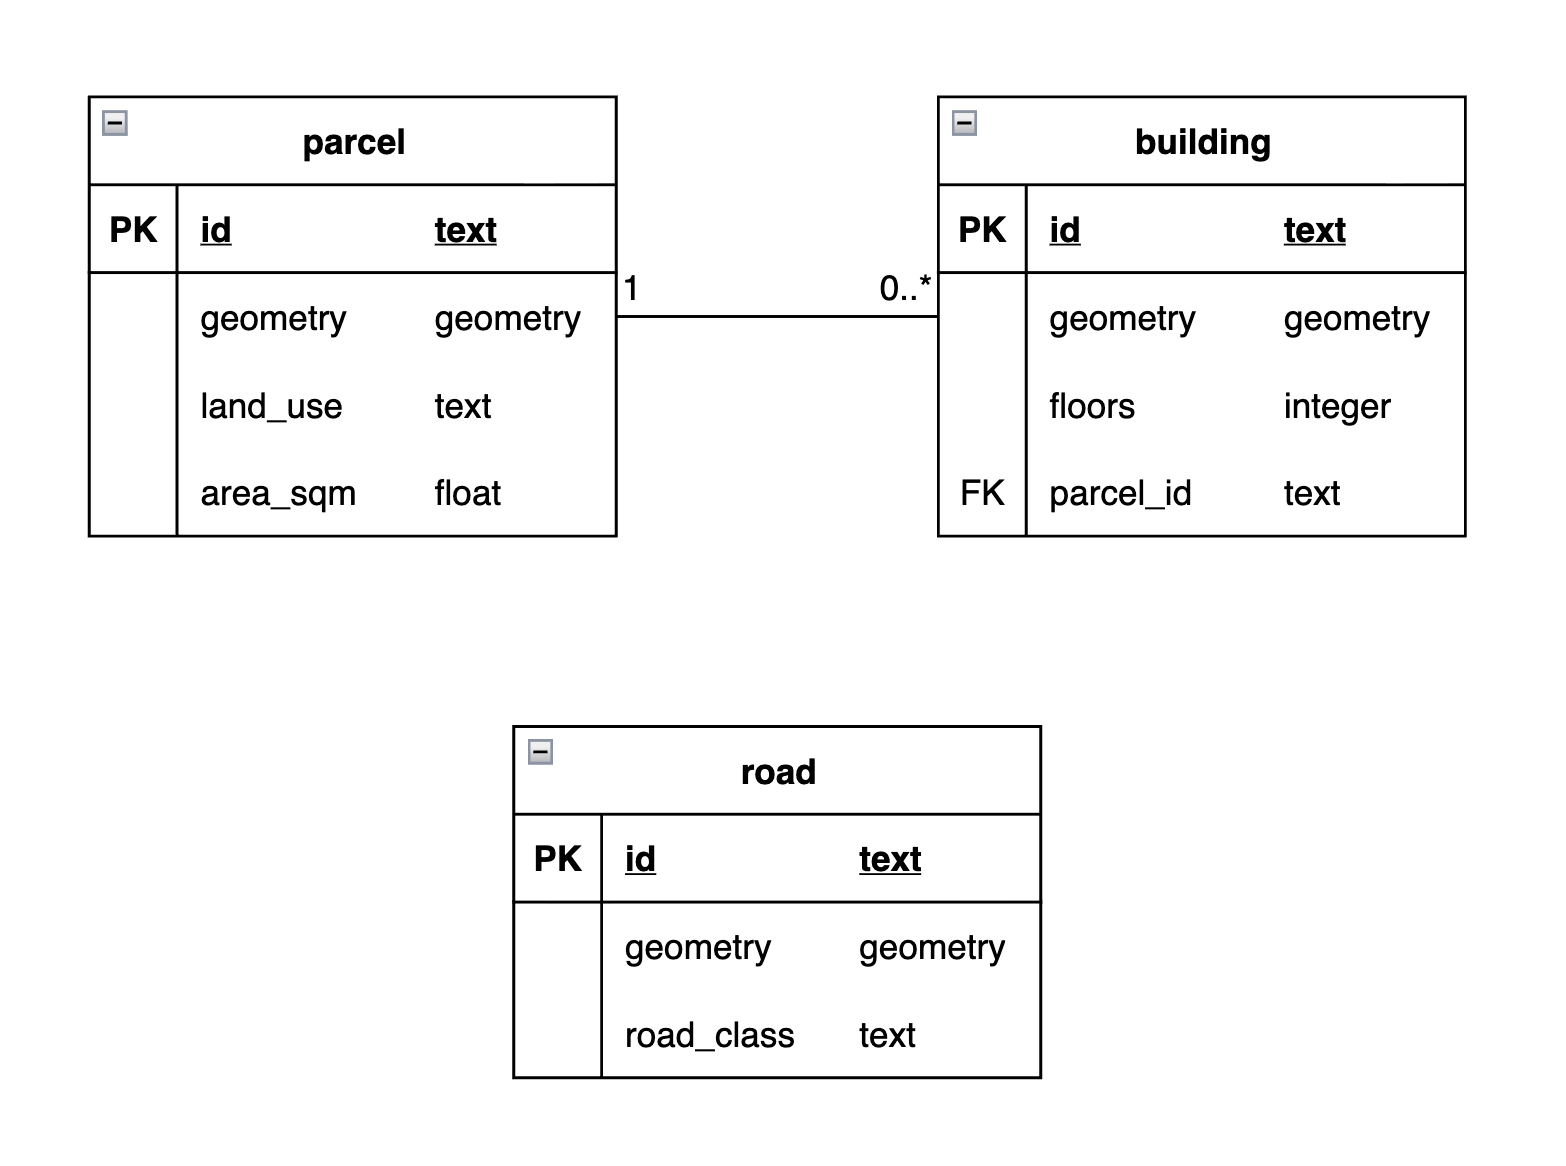
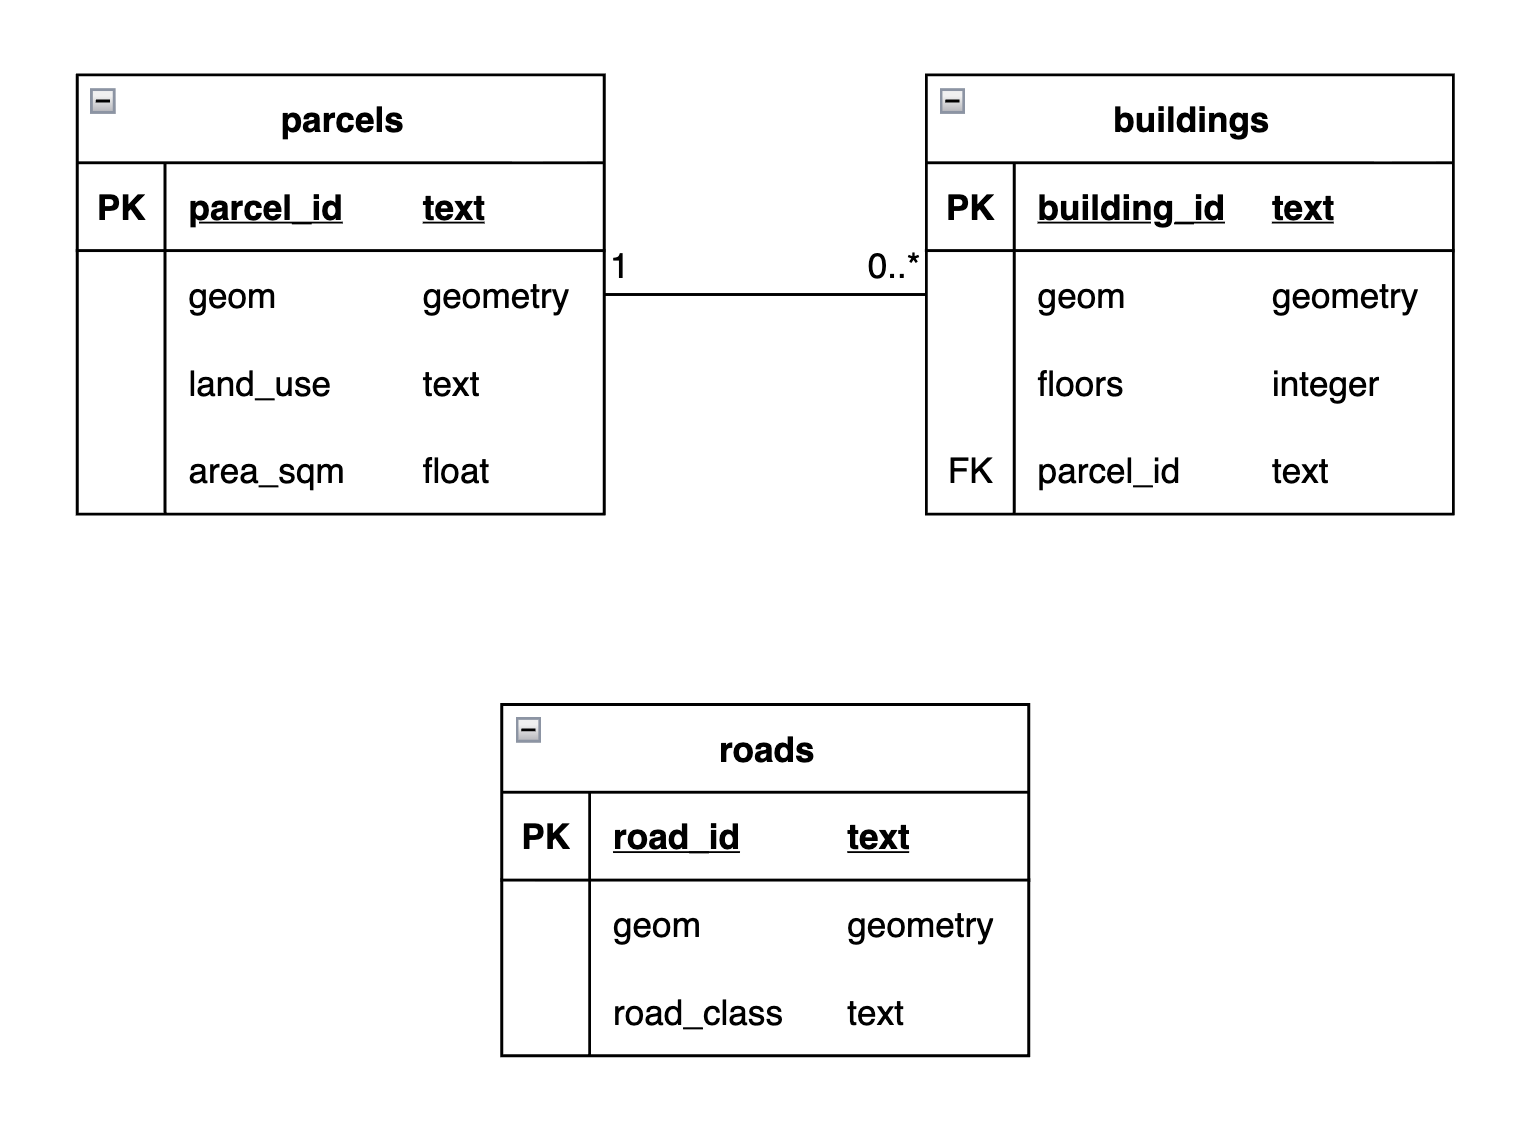
Created database schema definition (01_schema.sql); Updated README and ERD to reflect actual table and attribute names; Added running instructions to README.

diff --git a/README.md b/README.md
@@ -5,6 +5,7 @@
 - [Verify PostgreSQL Installation](#verify-postgresql-installation)
 - [Troubleshooting](#troubleshooting)
 - [Persistence Decision Table](#persistence-decision-table)
+- [The Entity-Relationship Diagram](#the-entity-relationship-diagram)
 - [Reflections](#reflections)
 - [Author Information](#-author)
 
@@ -15,6 +16,20 @@ Before starting, make sure that you have installed the following dependencies:
 - PostGIS
 - `psql` (included with PostgreSQL) and [pgAdmin 4](https://www.pgadmin.org/)
 - *(Optional)* **[VSCode](https://code.visualstudio.com/)**
+
+## Directory Structure
+```text
+├── diagrams/                       # Design Documentation
+│   └── lab6_relational_model.png       # ER diagram for the Lab 6 database model
+├── sql/                            # SQL commands
+│   ├── 01_schema.sql                   #
+│   ├── 02_seed.sql                     #
+│   └── 03_queries.sql                  #
+├── evidence/                       # 
+│   └── query_results.md                # 
+├── .gitignore                      # 
+└── README.md                       # Project overview, setup, and usage instructions
+```
 
 ## Verify PostgreSQL Installation
 
@@ -74,38 +89,42 @@ To exit `psql`:
 | `extension "..." is not available` | The package isn't installed for your running PostgreSQL version. Check `pg_config --version` against `SHOW server_version;`. |
 | `database "..." does not exist` | The database might not exist. You may run the `psql -l` command to check for existing databases. |
 
-## Directory Structure
-```text
-├── diagrams/                       # Design Documentation
-│   └── lab6_relational_model.png       # ER diagram for the Lab 6 database model
-├── sql/                            # SQL commands
-│   ├── 01_schema.sql                   #
-│   ├── 02_seed.sql                     #
-│   └── 03_queries.sql                  #
-├── evidence/                       # 
-│   └── query_results.md                # 
-├── .gitignore                      # 
-└── README.md                       # Project overview, setup, and usage instructions
-```
-
 ## Persistence Decision Table
 > *Note*: The table has been restructured into **one row per attribute** format so that it is easier to map against the ERD.
 
 | Object-model element | Persist? | Reason |
 |---|---|---|
-| `Parcel.id` | Yes | Identity must survive — used as the primary key for the Parcel table. |
+| `Parcel.parcel_id` | Yes | Identity must survive — used as the primary key for the Parcel table. |
 | `Parcel.land_use` | Yes | Mapped attribute state must survive after the program stops. Can also be considered later on as a separate entity (e.g. `LandUse`) and will be referenced by the `Parcel` table through foreign key.|
-| `Parcel.geometry` | Yes | Mapped spatial state must survive after the program stops. |
+| `Parcel.geom` | Yes | Mapped spatial state must survive after the program stops. |
 | `Parcel.area_sqm` | Yes | Mapped spatial state. Although can be considered as behavior since area can be recalculated from the stored geometry whenever it's needed. |
-| `Building.id` | Yes | Identity must survive — used as the primary key for the Building table. |
+| `Building.building_id` | Yes | Identity must survive — used as the primary key for the Building table. |
 | `Building.floors` | Yes | Persistent domain attribute describing the building. |
-| `Building.geometry` | Yes | Persistent spatial state for the building. |
+| `Building.geom` | Yes | Persistent spatial state for the building. |
 | `Building → Parcel relationship` | Yes | This relationship must be retained across restarts, so it requires a stored key reference (`parcel_id` as a foreign key on `Building`). |
-| `Road.id` | Yes | Identity must survive — used as the primary key for the Road table. |
+| `Road.road_id` | Yes | Identity must survive — used as the primary key for the Road table. |
 | `Road.road_class` | Yes | Persistent attribute describing the road's classification. Can also be considered later on as a separate entity (e.g. `RoadClass`) and will be referenced by the `Road` table through foreign key.|
-| `Road.geometry` | Yes | Persistent spatial state for the road. |
+| `Road.geom` | Yes | Persistent spatial state for the road. |
 | `SpatialRule.evaluate(parcel)` | No | Rule-checking logic stays as application code; it is behavior, not data to store. |
 | `RuleResult.rulename, passed, message` | Yes | Unlike a rule's logic, the outcome of evaluating a rule against a parcel is a fact worth keeping — it can't be regenerated later without re-running the exact same evaluation against the parcel's state at that point in time, so it must be stored if any history of past assessments is required. |
+
+## The Entity-Relationship Diagram
+<img src="diagrams/lab6_relational_model.png" alt="lab5_uml" width="800">
+
+## Creating the Database Schema
+
+### Method 1: Using the Terminal
+Run the `01_schema.sql` file from the root directory using the `psql` command-line utility with the `-f` flag.
+``` bash
+psql -U your_username -d your_database -f sql/01_schema.sql
+```
+
+### Method 2: Using the pgAdmin
+1. Open the `query tool` of your specific database.
+2. Click the `Open File` icon (folder symbol) in the toolbar.
+3. Navigate to and select `01_schema.sql` file to load it into the editor.
+4. Click the Execute/Refresh button (or press F5) to run the script.
+
 
 ## Reflections
 
